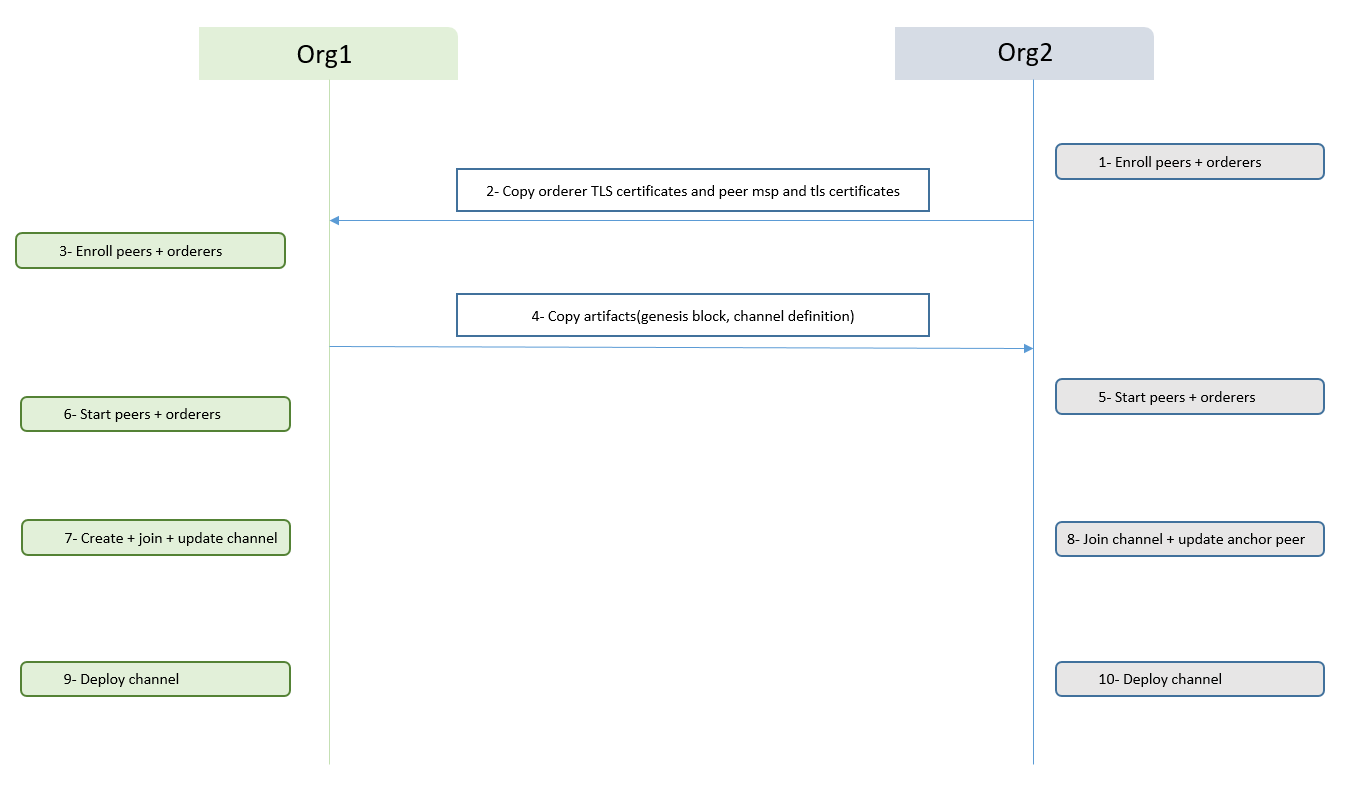
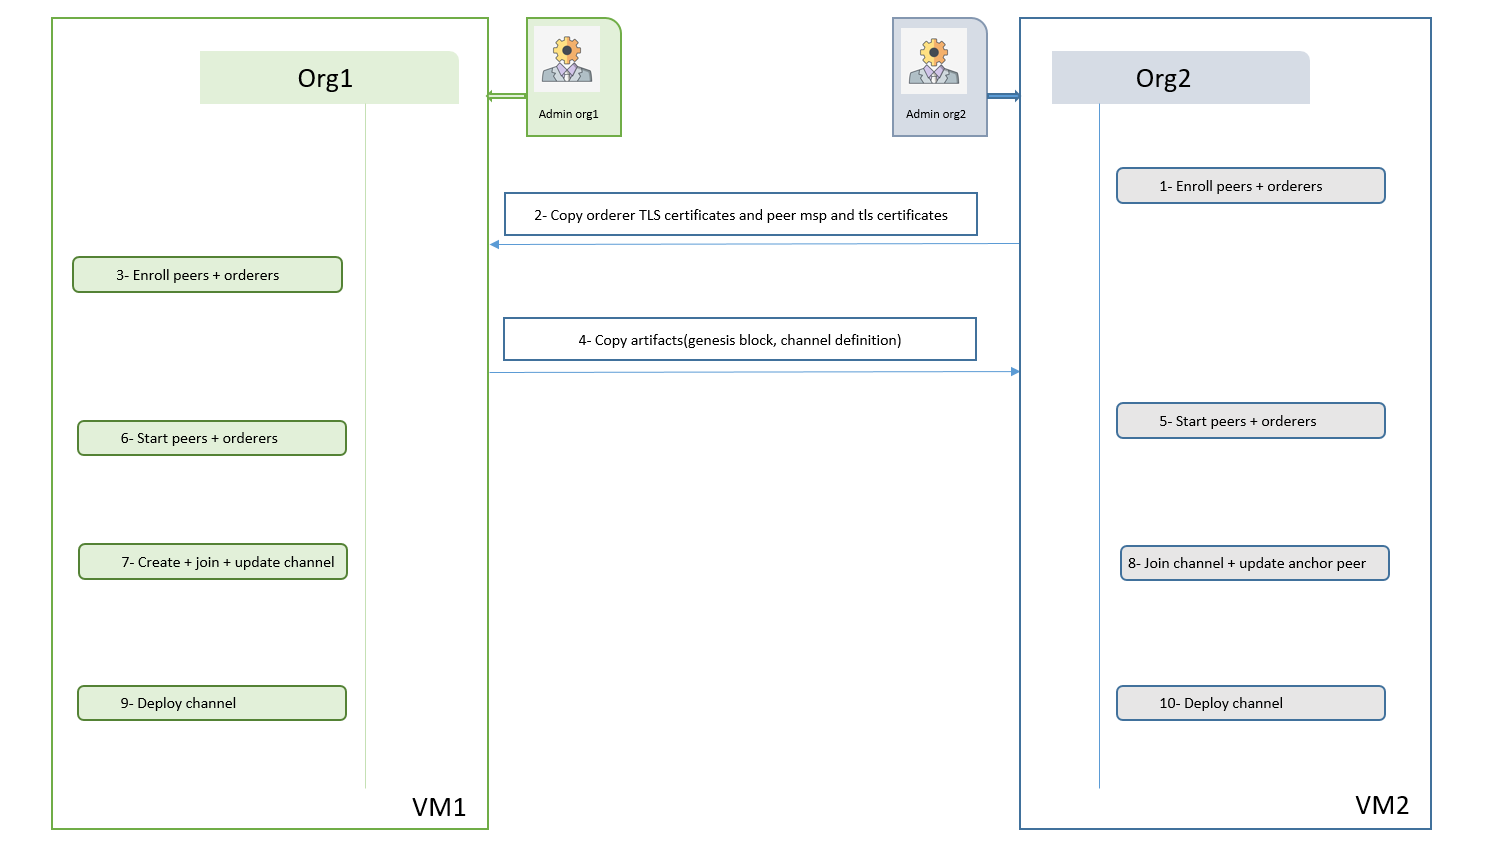
fix

diff --git a/docs/two-org-two-machine.md b/docs/two-org-two-machine.md
@@ -13,7 +13,7 @@ These generated artifacts by org1 are shared with org2.
 
 ## Deploy two organizations on two machines
 
-For this tutorial, we will be using these files :
+For this tutorial, each organization will be deployed on one machine and we will be using these files :
 
 * [config-deploy-org1.yaml](https://github.com/bxforce/bnc-hlf/blob/improve-docs/tests/multi_machine/two-orgs/config-deploy-org1.yaml)
 * [config-deploy-org2.yaml](https://github.com/bxforce/bnc-hlf/blob/improve-docs/tests/multi_machine/two-orgs/config-deploy-org2.yaml)
@@ -93,18 +93,25 @@ ssh $SSH_VM2 'curl -L https://raw.githubusercontent.com/bxforce/bnc-hlf/improve-
 
 Now we will start by generating crypto material for org2:
 
+On VM2 do :
+
 ````aidl
-ssh $SSH_VM2 -t 'bnc generate --config-folder $PWD/config -f config-deploy-org2.yaml -h config-hosts.yaml'
+bnc generate --config-folder $PWD/config -f config-deploy-org2.yaml -h config-hosts.yaml
 ````
 
 
 ### Step4: Copy necessary certificates from machine2 of org2 to machine1 of org1:
 
+Because the CA container is creating the _/tmp/hyperledger-fabric-network_ folder with root privilege, we will do the following
+
+command to be able to copy files between both organizations.
+
 ````aidl
 sudo chown -R $USER:$USER /tmp/hyperledger-fabric-network; ssh $SSH_VM2 -t 'sudo chown -R $USER:$USER /tmp/hyperledger-fabric-network'
 ````
+Next we will be copying from _org2_ the necessary certificates to _org1_ in order to generate the artifacts.
 
-Necessary for creating the configtx.yaml
+Copy orderers TLS certificates, necessary for creating the configtx.yaml
 
 ````aidl
 mkdir -p /tmp/hyperledger-fabric-network/organizations/ordererOrganizations/org2.bnc.com/orderers/orderer3.bnc.com/tls
@@ -122,7 +129,7 @@ mkdir -p /tmp/hyperledger-fabric-network/organizations/ordererOrganizations/org2
 scp -r $SSH_VM2:/tmp/hyperledger-fabric-network/organizations/ordererOrganizations/org2.bnc.com/orderers/orderer4.bnc.com/tls/server.crt /tmp/hyperledger-fabric-network/organizations/ordererOrganizations/org2.bnc.com/orderers/orderer4.bnc.com/tls/server.crt
 ````
 
-Necessary for genesis
+Copy the org2 MSP folder, Necessary for genesis creation
 
 ````aidl
 scp -r $SSH_VM2:/tmp/hyperledger-fabric-network/organizations/ordererOrganizations/org2.bnc.com/msp /tmp/hyperledger-fabric-network/organizations/ordererOrganizations/org2.bnc.com/msp
@@ -136,7 +143,7 @@ mkdir -p /tmp/hyperledger-fabric-network/organizations/peerOrganizations/org2.bn
 scp -r $SSH_VM2:/tmp/hyperledger-fabric-network/organizations/peerOrganizations/org2.bnc.com/msp /tmp/hyperledger-fabric-network/organizations/peerOrganizations/org2.bnc.com/msp
 ````
 
-This one is necessary for the invoke with CLI
+Copy peers certificates. This one is necessary for the invoke with CLI
   
 ````aidl
 mkdir -p /tmp/hyperledger-fabric-network/organizations/peerOrganizations/org2.bnc.com/peers/peer0.org2.bnc.com/tls
@@ -178,8 +185,9 @@ scp -r /tmp/hyperledger-fabric-network/artifacts/* $SSH_VM2:/tmp/hyperledger-fab
 
 ### Step7: Start peers and orderers on machine2:
 
+On VM2 do : 
 ````aidl
-ssh $SSH_VM2 -t 'bnc start --config-folder $PWD/config -f config-deploy-org2.yaml -h config-hosts.yaml'
+bnc start --config-folder $PWD/config -f config-deploy-org2.yaml -h config-hosts.yaml
 ````
 
 ### Step8: Start peers and orderers on machine1:
@@ -196,14 +204,18 @@ bnc channel deploy --config-folder $PWD/config -f config-deploy-org1.yaml -h con
 
 ### Step10: Join/update anchor peer channel by org2:
 
+On VM2 do :
+
 ````aidl
-ssh $SSH_VM2 -t 'bnc channel deploy --config-folder $PWD/config -f config-deploy-org2.yaml -h config-hosts.yaml --no-create'
+bnc channel deploy --config-folder $PWD/config -f config-deploy-org2.yaml -h config-hosts.yaml --no-create
 ````
 
 ### Step11: Deploy chaincode on org2:
 
+On VM2 do:
+
 ````aidl
-ssh $SSH_VM2 -t 'bnc chaincode deploy --config-folder $PWD/config -f config-deploy-org2.yaml -h /config-hosts.yaml -c config-chaincode.yaml'
+bnc chaincode deploy --config-folder $PWD/config -f config-deploy-org2.yaml -h /config-hosts.yaml -c config-chaincode.yaml
 ````
 
 ### Step12: Deploy chaincode on org1:
@@ -232,6 +244,7 @@ bnc chaincode invoke --config-folder /home/ubuntu/config -f config-deploy-org1.y
 ````
 
 On machine2 of org2 you can invoke:
+
 ````aidl
 bnc chaincode invoke --config-folder /home/ubuntu/config -f config-deploy-org2.yaml -h config-hosts.yaml -c config-chaincode.yaml -i "invoke,a,b,10"
 ````
